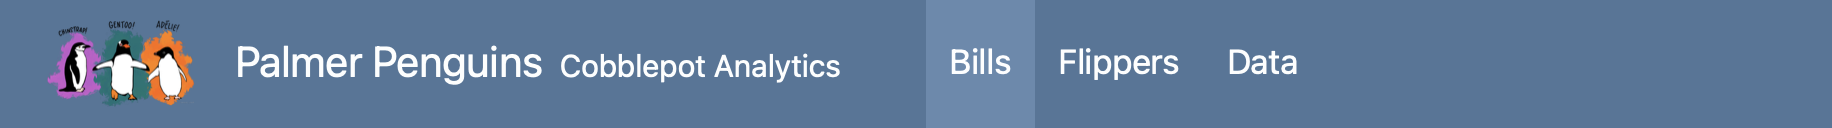
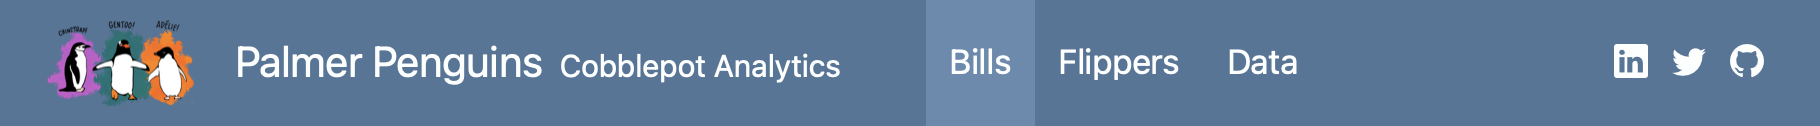
Built site for gh-pages

diff --git a/index.html b/index.html
@@ -665,21 +665,24 @@ dashboards from Jupyter Notebooks</p>
 </section>
 <section id="navigation-bar-and-pages" class="slide level2">
 <h2>Navigation Bar and Pages</h2>
-<div style="margin-bottom: 2em;">
-<div class="sourceCode" id="cb4"><pre class="sourceCode python pymd code-with-copy"><code class="sourceCode python"><span id="cb4-1"><a href="#cb4-1" aria-hidden="true" tabindex="-1"></a><span class="op">---</span></span>
+
+<img data-src="images/navigation-toolbar.png" class="r-stretch"><div style="margin-top: 0.7em;">
+<div class="sourceCode" id="cb4"><pre class="sourceCode python pymd code-with-copy"><code class="sourceCode python"><span id="cb4-1"><a href="#cb4-1" aria-hidden="true" tabindex="-1"></a><span class="op">---</span> </span>
 <span id="cb4-2"><a href="#cb4-2" aria-hidden="true" tabindex="-1"></a>title: <span class="st">"Palmer Penguins"</span></span>
 <span id="cb4-3"><a href="#cb4-3" aria-hidden="true" tabindex="-1"></a>author: <span class="st">"Cobblepot Analytics"</span></span>
-<span id="cb4-4"><a href="#cb4-4" aria-hidden="true" tabindex="-1"></a>logo: penguins.png</span>
-<span id="cb4-5"><a href="#cb4-5" aria-hidden="true" tabindex="-1"></a><span class="op">---</span></span>
-<span id="cb4-6"><a href="#cb4-6" aria-hidden="true" tabindex="-1"></a></span>
-<span id="cb4-7"><a href="#cb4-7" aria-hidden="true" tabindex="-1"></a><span class="co"># Bills</span></span>
-<span id="cb4-8"><a href="#cb4-8" aria-hidden="true" tabindex="-1"></a></span>
-<span id="cb4-9"><a href="#cb4-9" aria-hidden="true" tabindex="-1"></a><span class="co"># Flippers</span></span>
-<span id="cb4-10"><a href="#cb4-10" aria-hidden="true" tabindex="-1"></a></span>
-<span id="cb4-11"><a href="#cb4-11" aria-hidden="true" tabindex="-1"></a><span class="co"># Data</span></span></code><button title="Copy to Clipboard" class="code-copy-button"><i class="bi"></i></button></pre></div>
+<span id="cb4-4"><a href="#cb4-4" aria-hidden="true" tabindex="-1"></a><span class="bu">format</span>: </span>
+<span id="cb4-5"><a href="#cb4-5" aria-hidden="true" tabindex="-1"></a>  dashboard:</span>
+<span id="cb4-6"><a href="#cb4-6" aria-hidden="true" tabindex="-1"></a>    logo: images<span class="op">/</span>penguins.png</span>
+<span id="cb4-7"><a href="#cb4-7" aria-hidden="true" tabindex="-1"></a>    nav<span class="op">-</span>buttons: [linkedin, twitter, github]</span>
+<span id="cb4-8"><a href="#cb4-8" aria-hidden="true" tabindex="-1"></a><span class="op">---</span></span>
+<span id="cb4-9"><a href="#cb4-9" aria-hidden="true" tabindex="-1"></a></span>
+<span id="cb4-10"><a href="#cb4-10" aria-hidden="true" tabindex="-1"></a><span class="co"># Bills</span></span>
+<span id="cb4-11"><a href="#cb4-11" aria-hidden="true" tabindex="-1"></a></span>
+<span id="cb4-12"><a href="#cb4-12" aria-hidden="true" tabindex="-1"></a><span class="co"># Flippers</span></span>
+<span id="cb4-13"><a href="#cb4-13" aria-hidden="true" tabindex="-1"></a></span>
+<span id="cb4-14"><a href="#cb4-14" aria-hidden="true" tabindex="-1"></a><span class="co"># Data</span></span></code><button title="Copy to Clipboard" class="code-copy-button"><i class="bi"></i></button></pre></div>
 </div>
-
-<img data-src="images/navigation-toolbar.png" class="fragment r-stretch"></section>
+</section>
 <section id="sidebars-page-level" class="slide level2 component-slide">
 <h2>Sidebars: Page Level</h2>
 <div class="columns">

diff --git a/pydata-quarto-dashboards.html b/pydata-quarto-dashboards.html
@@ -665,21 +665,24 @@ dashboards from Jupyter Notebooks</p>
 </section>
 <section id="navigation-bar-and-pages" class="slide level2">
 <h2>Navigation Bar and Pages</h2>
-<div style="margin-bottom: 2em;">
-<div class="sourceCode" id="cb4"><pre class="sourceCode python pymd code-with-copy"><code class="sourceCode python"><span id="cb4-1"><a href="#cb4-1" aria-hidden="true" tabindex="-1"></a><span class="op">---</span></span>
+
+<img data-src="images/navigation-toolbar.png" class="r-stretch"><div style="margin-top: 0.7em;">
+<div class="sourceCode" id="cb4"><pre class="sourceCode python pymd code-with-copy"><code class="sourceCode python"><span id="cb4-1"><a href="#cb4-1" aria-hidden="true" tabindex="-1"></a><span class="op">---</span> </span>
 <span id="cb4-2"><a href="#cb4-2" aria-hidden="true" tabindex="-1"></a>title: <span class="st">"Palmer Penguins"</span></span>
 <span id="cb4-3"><a href="#cb4-3" aria-hidden="true" tabindex="-1"></a>author: <span class="st">"Cobblepot Analytics"</span></span>
-<span id="cb4-4"><a href="#cb4-4" aria-hidden="true" tabindex="-1"></a>logo: penguins.png</span>
-<span id="cb4-5"><a href="#cb4-5" aria-hidden="true" tabindex="-1"></a><span class="op">---</span></span>
-<span id="cb4-6"><a href="#cb4-6" aria-hidden="true" tabindex="-1"></a></span>
-<span id="cb4-7"><a href="#cb4-7" aria-hidden="true" tabindex="-1"></a><span class="co"># Bills</span></span>
-<span id="cb4-8"><a href="#cb4-8" aria-hidden="true" tabindex="-1"></a></span>
-<span id="cb4-9"><a href="#cb4-9" aria-hidden="true" tabindex="-1"></a><span class="co"># Flippers</span></span>
-<span id="cb4-10"><a href="#cb4-10" aria-hidden="true" tabindex="-1"></a></span>
-<span id="cb4-11"><a href="#cb4-11" aria-hidden="true" tabindex="-1"></a><span class="co"># Data</span></span></code><button title="Copy to Clipboard" class="code-copy-button"><i class="bi"></i></button></pre></div>
+<span id="cb4-4"><a href="#cb4-4" aria-hidden="true" tabindex="-1"></a><span class="bu">format</span>: </span>
+<span id="cb4-5"><a href="#cb4-5" aria-hidden="true" tabindex="-1"></a>  dashboard:</span>
+<span id="cb4-6"><a href="#cb4-6" aria-hidden="true" tabindex="-1"></a>    logo: images<span class="op">/</span>penguins.png</span>
+<span id="cb4-7"><a href="#cb4-7" aria-hidden="true" tabindex="-1"></a>    nav<span class="op">-</span>buttons: [linkedin, twitter, github]</span>
+<span id="cb4-8"><a href="#cb4-8" aria-hidden="true" tabindex="-1"></a><span class="op">---</span></span>
+<span id="cb4-9"><a href="#cb4-9" aria-hidden="true" tabindex="-1"></a></span>
+<span id="cb4-10"><a href="#cb4-10" aria-hidden="true" tabindex="-1"></a><span class="co"># Bills</span></span>
+<span id="cb4-11"><a href="#cb4-11" aria-hidden="true" tabindex="-1"></a></span>
+<span id="cb4-12"><a href="#cb4-12" aria-hidden="true" tabindex="-1"></a><span class="co"># Flippers</span></span>
+<span id="cb4-13"><a href="#cb4-13" aria-hidden="true" tabindex="-1"></a></span>
+<span id="cb4-14"><a href="#cb4-14" aria-hidden="true" tabindex="-1"></a><span class="co"># Data</span></span></code><button title="Copy to Clipboard" class="code-copy-button"><i class="bi"></i></button></pre></div>
 </div>
-
-<img data-src="images/navigation-toolbar.png" class="fragment r-stretch"></section>
+</section>
 <section id="sidebars-page-level" class="slide level2 component-slide">
 <h2>Sidebars: Page Level</h2>
 <div class="columns">
